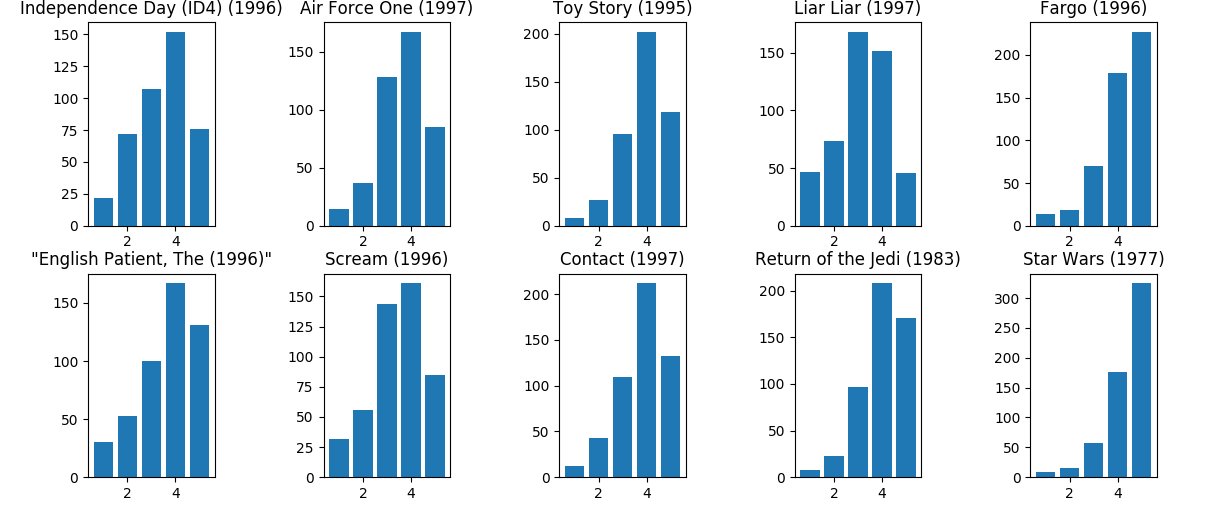
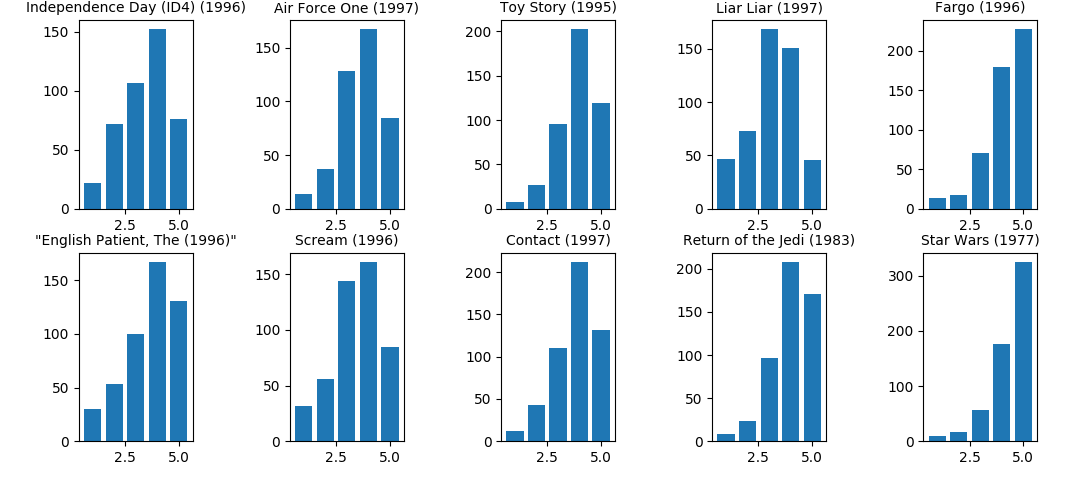
visual 3 added

diff --git a/data_handler.py b/data_handler.py
@@ -82,7 +82,6 @@ class DataHandler(object):
 
         #this is the second type
         top10 = self.get_most_popular()
-        plt.title('Ratings of most popular movies')
 
         fig, axes = plt.subplots(nrows=2, ncols=5)
         fig.tight_layout()
@@ -90,12 +89,29 @@ class DataHandler(object):
             plt.subplot(2,5,i)
             ratings = self.movie_ratings[top10[i]]
             del ratings['total']
+            del ratings['rating_sum']
             plt.bar(ratings.keys(),ratings.values())
             # plt.xlabel('Rating')
             # plt.ylabel('Number of instances')
-            plt.title(self.movie_names[top10[i]])
+            plt.title(self.movie_names[top10[i]], fontsize=10)
         plt.savefig('Plots/Basic_Visualization_2_type2')
+        plt.show()
         plt.clf()
+
+    def best_hist(self):
+        top10 = self.get_best()
+        fig, axes = plt.subplots(nrows=2, ncols=5)
+        fig.tight_layout()
+        for i in range(1,11):
+            plt.subplot(2,5,i)
+            ratings = self.movie_ratings[top10[i]]
+            del ratings['total']
+            del ratings['rating_sum']
+            plt.bar(ratings.keys(),ratings.values())
+            plt.title(self.movie_names[top10[i]], fontsize=10)
+        plt.savefig('Plots/Basic_Visualization_3')
+        plt.clf()
+
 
     def get_most_popular(self):
         top10 = []

diff --git a/visualize_data.py b/visualize_data.py
@@ -7,5 +7,6 @@ from data_handler import DataHandler
 
 dh = DataHandler()
 
-dh.ratings_hist()
+#dh.ratings_hist()
 dh.most_popular_hist()
+#dh.best_hist()
